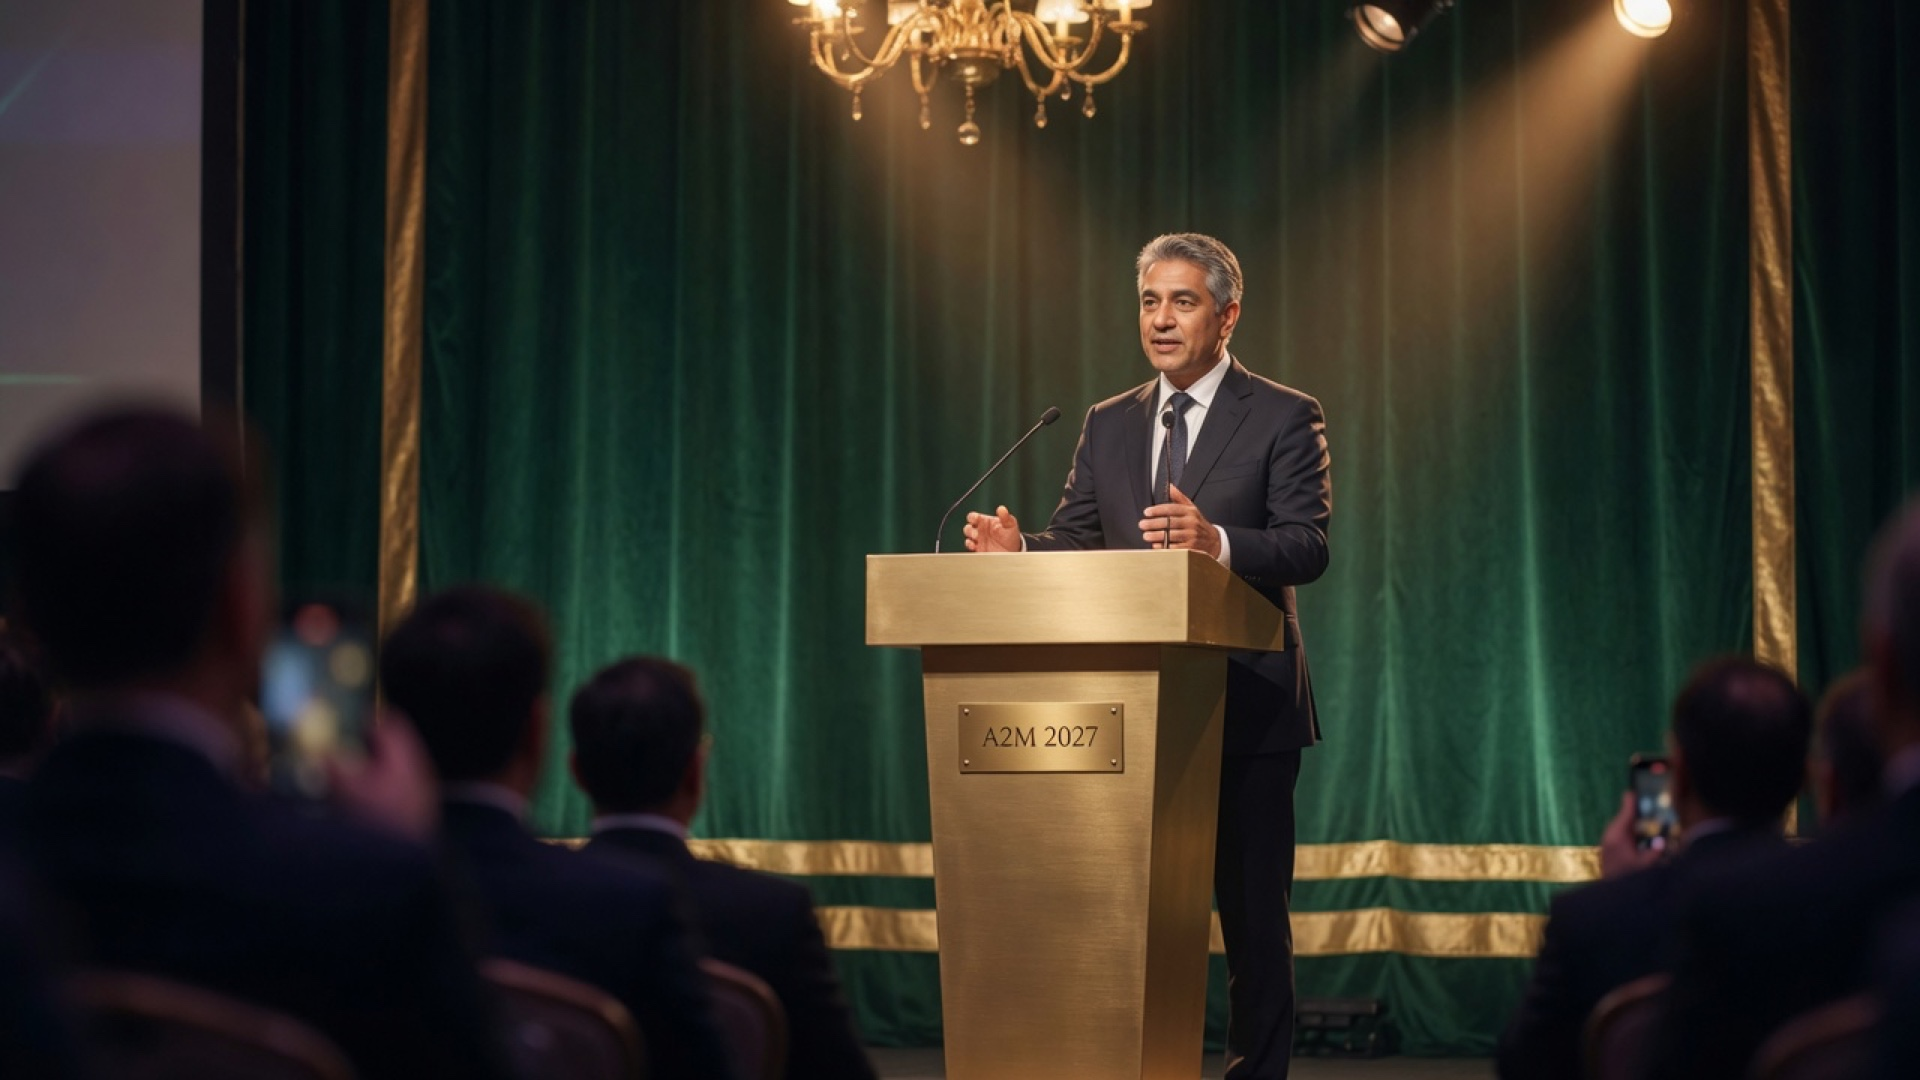
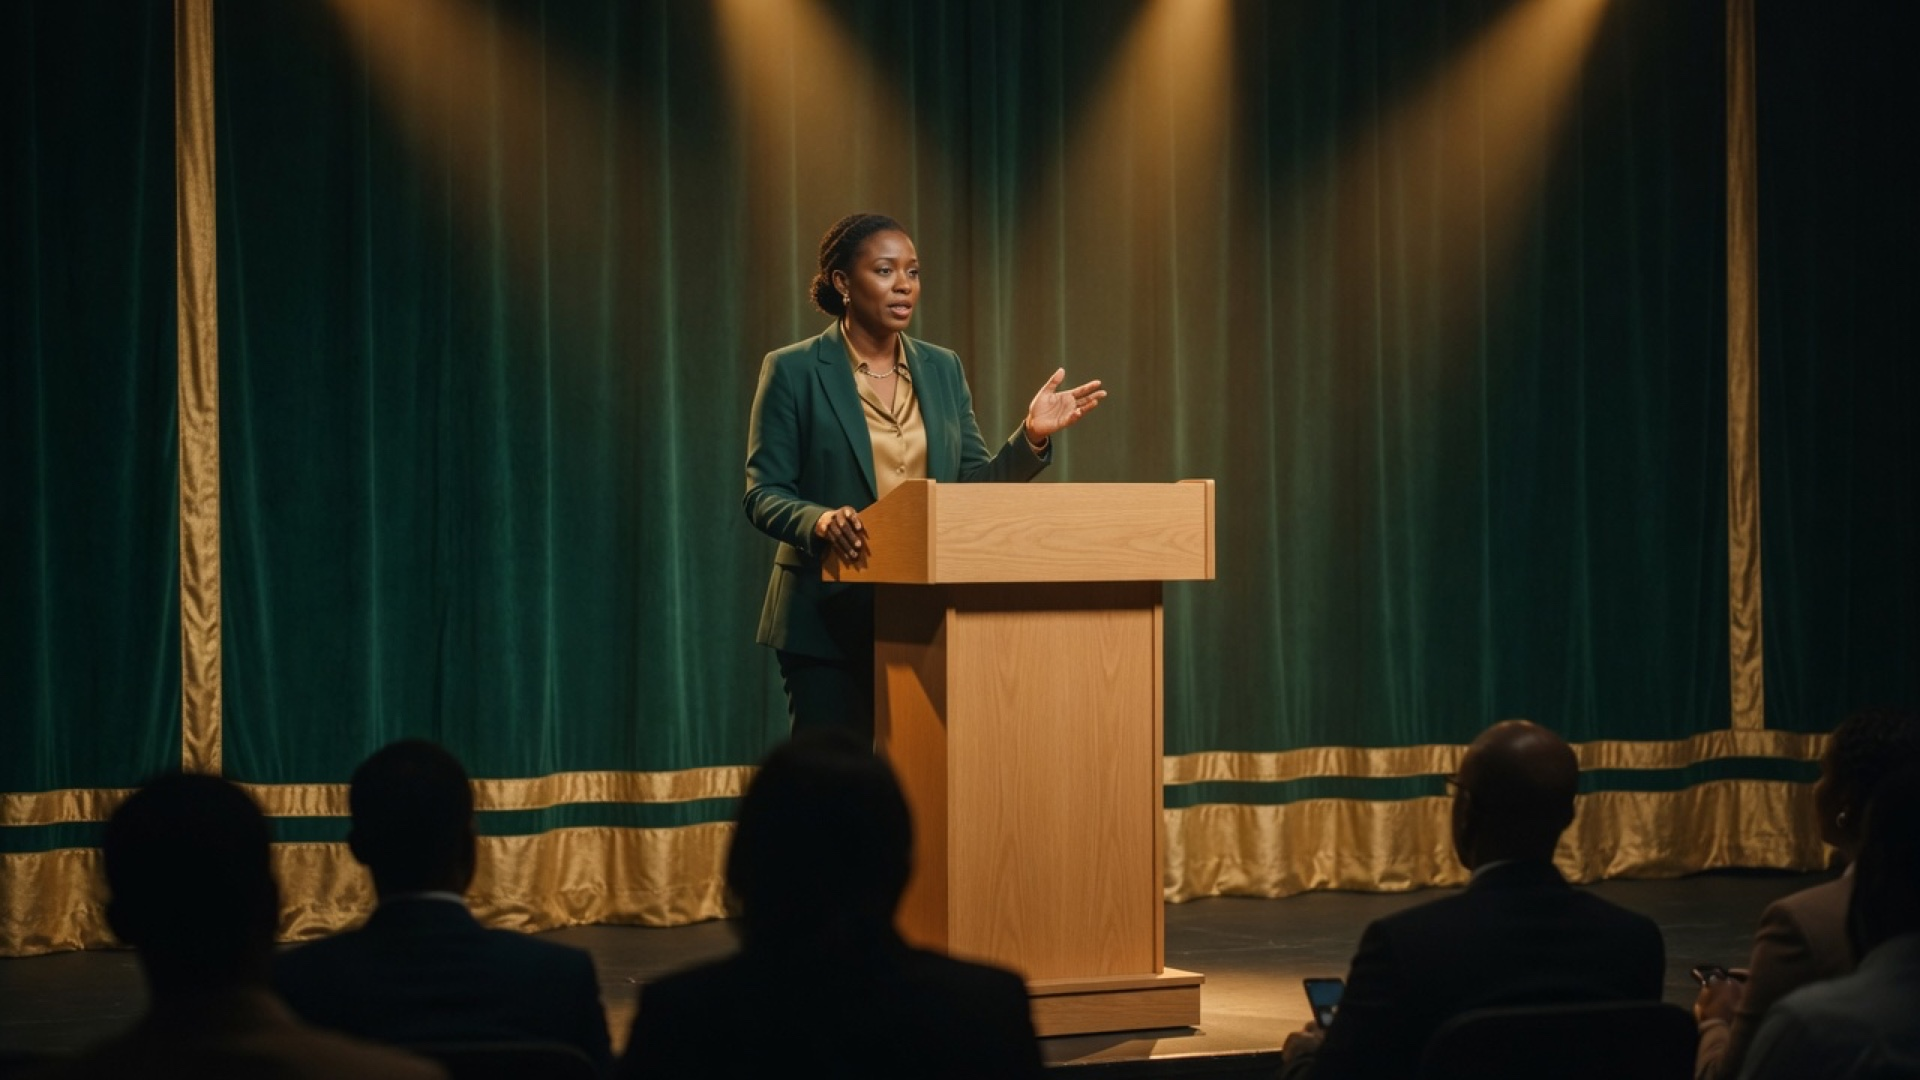
20260919 partner: regenerate all four images with African representation and no event branding (owner request)

diff --git a/src/pages/PartnerPage.tsx b/src/pages/PartnerPage.tsx
@@ -220,7 +220,7 @@ export default function PartnerPage() {
             <div className="flex min-w-0 flex-col gap-8">
               <ImagePanel
                 img="/images/partner/keynote-stage.jpg"
-                alt="Speaker at a gold lectern before an A2M audience, emerald curtain behind"
+                alt="Speaker addressing delegates from a lectern in front of an emerald curtain"
                 eyebrow="Keynotes & panels"
               />
               <p className="max-w-[760px] text-lead text-muted leading-[1.7]">
